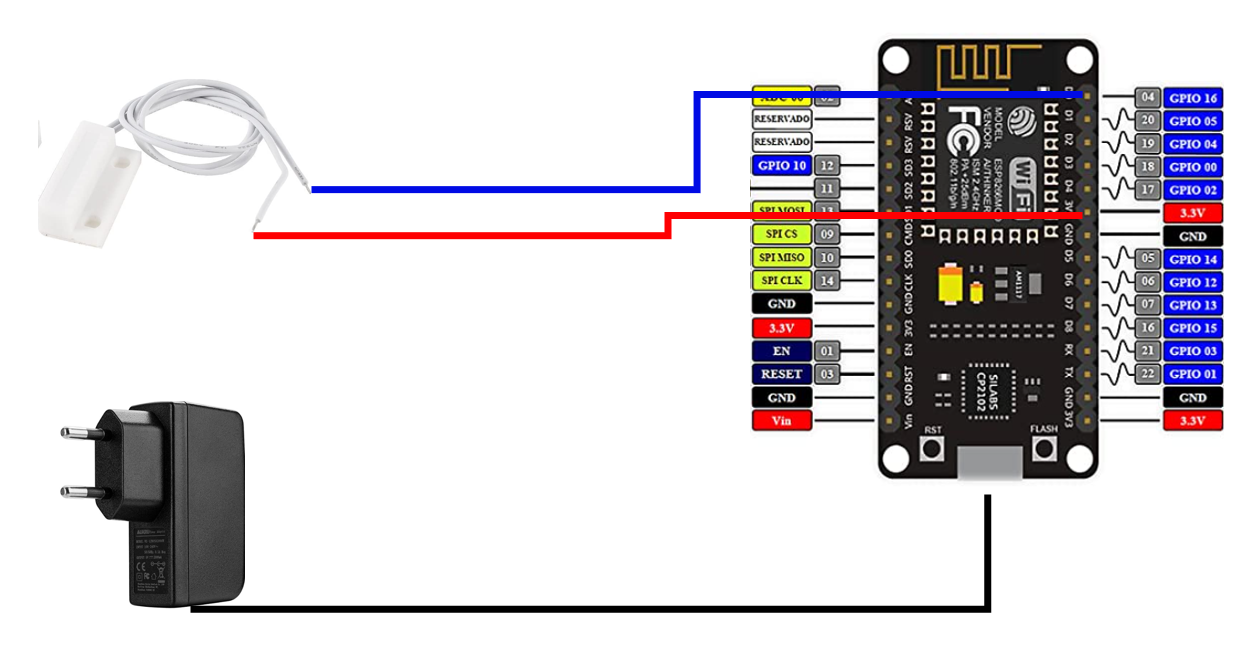
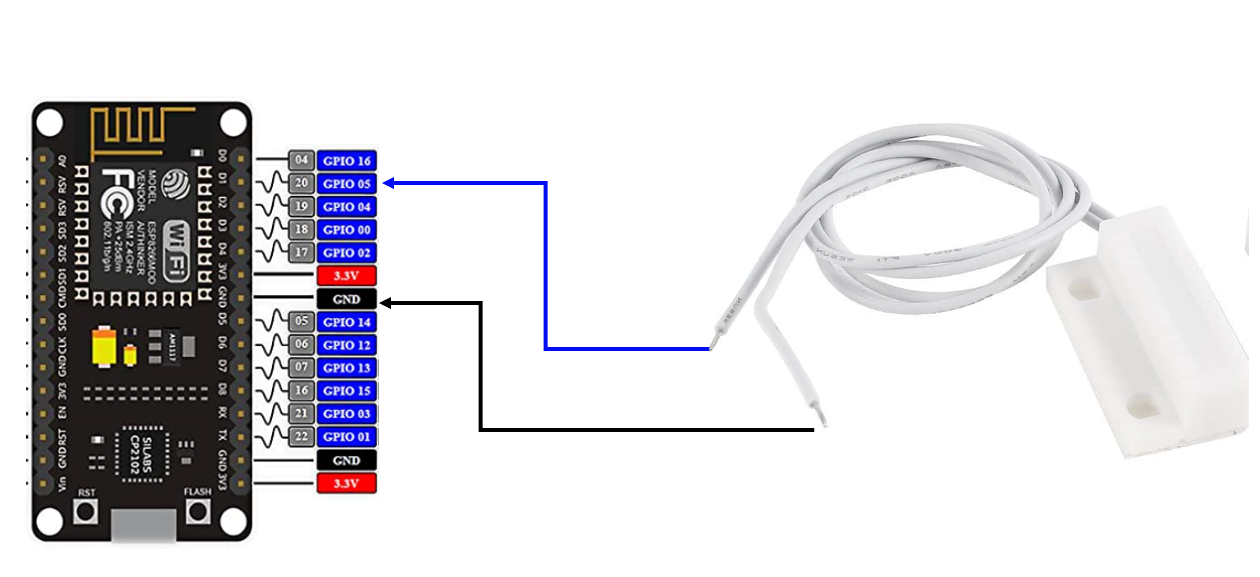
GitBook: [#141] No subject

diff --git a/smarthome-via-home-assistant/integrationen/bluetooth-reichweiten-problem/sensoren-integrieren.md b/smarthome-via-home-assistant/integrationen/bluetooth-reichweiten-problem/sensoren-integrieren.md
@@ -6,7 +6,7 @@ description: >-
 
 # Sensoren integrieren
 
-<figure><img src="../../../.gitbook/assets/image (9).png" alt=""><figcaption><p>die Sensoren werden automatisch gefunden</p></figcaption></figure>
+<figure><img src="../../../.gitbook/assets/image (9) (2).png" alt=""><figcaption><p>die Sensoren werden automatisch gefunden</p></figcaption></figure>
 
 {% hint style="info" %}
 Macht einen Sensor nach dem anderen sonst kommt man schnell durcheinander

diff --git a/smarthome-via-home-assistant/integrationen/gas-sensor/anschlussplan.md b/smarthome-via-home-assistant/integrationen/gas-sensor/anschlussplan.md
@@ -1,3 +1,3 @@
 # Anschlussplan
 
-<figure><img src="../../../.gitbook/assets/image (5).png" alt=""><figcaption><p>Welches Kabel wo steck ist hier egal</p></figcaption></figure>
+<figure><img src="../../../.gitbook/assets/image.png" alt=""><figcaption><p>welches Kabel ihr wo anschließt ist hier tatsächlich egal</p></figcaption></figure>
